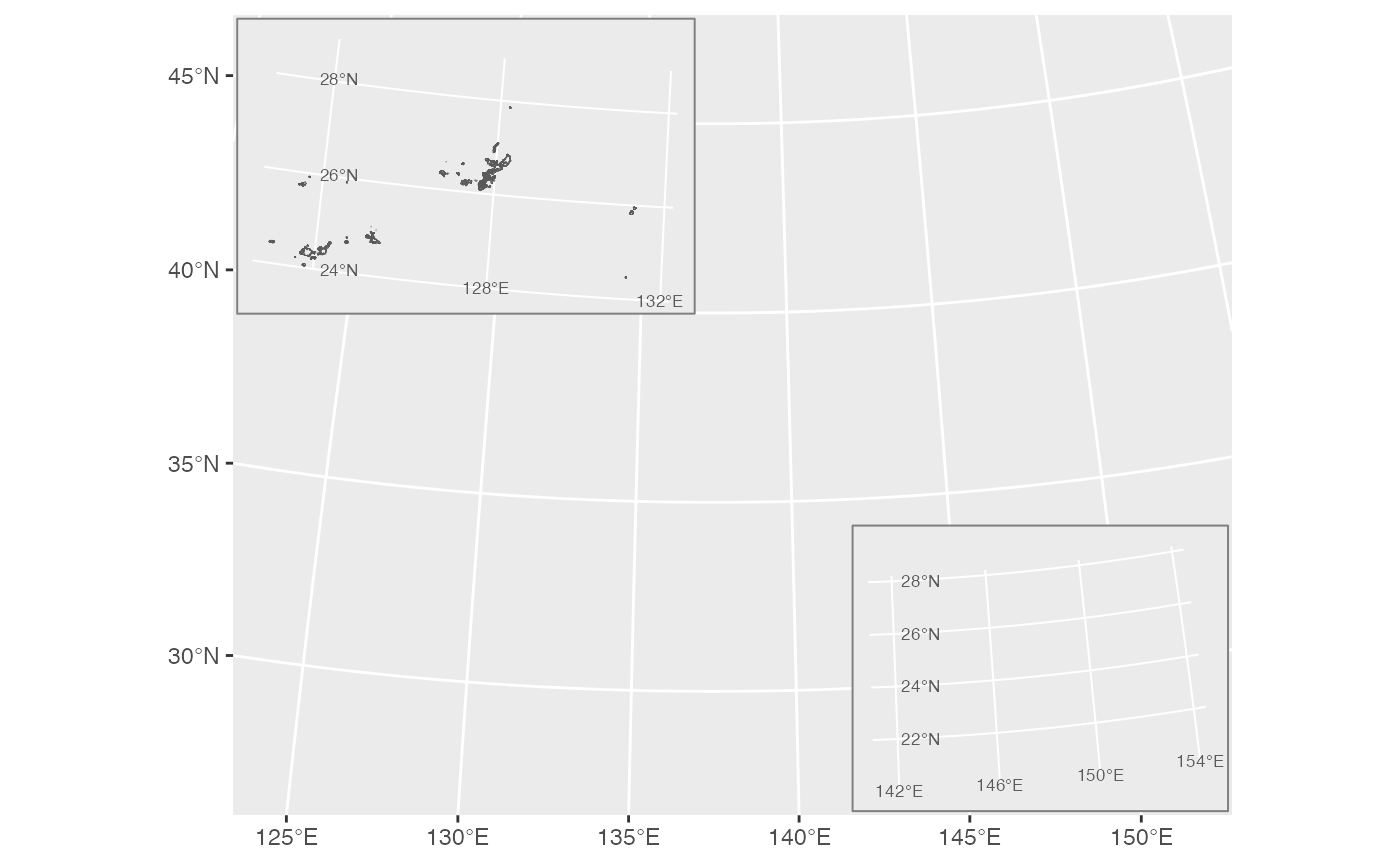
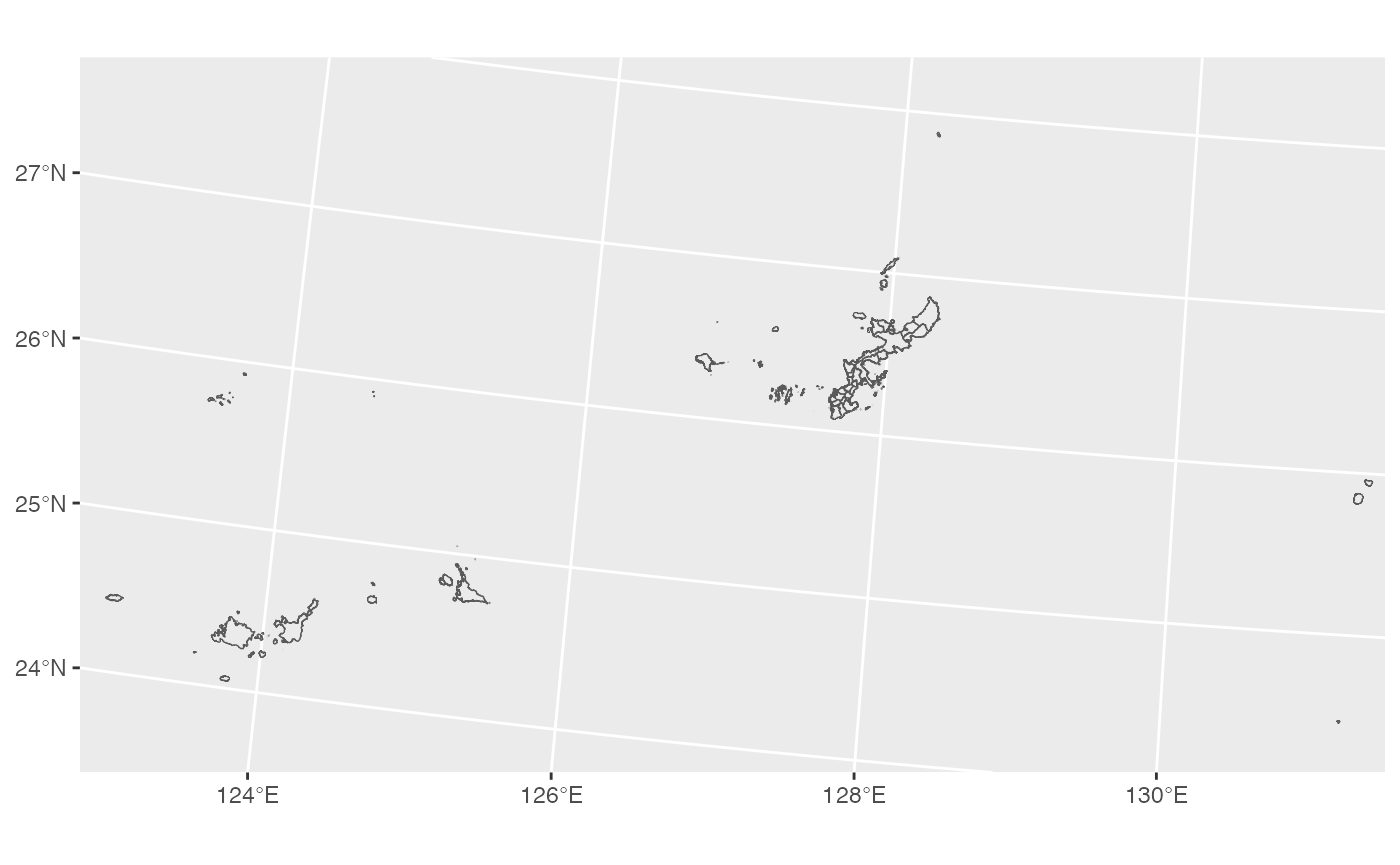
Finalize CRAN readiness checks

diff --git a/docs/reference/plot_jpmap.html b/docs/reference/plot_jpmap.html
@@ -107,7 +107,10 @@
 <dt id="arg-inset">inset<a class="anchor" aria-label="anchor" href="#arg-inset"></a></dt>
 <dd><p>Inset behavior. Use <code>TRUE</code> to move both Okinawa and
 Ogasawara, <code>FALSE</code> for no movement, or a character vector containing
-<code>"okinawa"</code> and/or <code>"ogasawara"</code> to move selected island groups.</p></dd>
+<code>"okinawa"</code> and/or <code>"ogasawara"</code> to move selected island groups. For
+filtered municipality maps such as
+<code>plot_jpmap("municipality", include = "Okinawa")</code>, the default plot frame
+is local and non-inset unless <code>inset</code> is supplied explicitly.</p></dd>
 
 <dt id="arg-okinawa">okinawa<a class="anchor" aria-label="anchor" href="#arg-okinawa"></a></dt>
 <dd><p>Whether Okinawa should be moved when <code>inset</code> includes it.</p></dd>

diff --git a/project_history/2026-06-14 by Codex.md b/project_history/2026-06-14 by Codex.md
@@ -141,6 +141,15 @@ wording that implied disputed-territory handling was hidden, switched the
 municipal choropleth vignette to 2020 Okinawa Island municipality population,
 and used `ggthemes::scale_color_colorblind()` for the municipal point map.
 
+CRAN readiness and municipal-default follow-up: verified that all exported
+functions and bundled datasets have Rd aliases, added source roxygen blocks for
+the remaining exported functions, and confirmed Rd checks are clean. Changed
+`plot_jpmap("municipality", include = "Okinawa")` so filtered municipality
+plots default to a local non-inset frame unless `inset` is supplied explicitly.
+Added `.github` to `.Rbuildignore` and reran `R CMD check --as-cran`; the final
+local result was 0 errors, 0 warnings, and 2 notes: the expected new
+submission/package-size note and a local HTML Tidy version note.
+
 ## Major Artifacts Created Or Updated
 
 - `project_history/2026-06-14 by Codex.md`

diff --git a/docs/reference/plot_jpmap.md b/docs/reference/plot_jpmap.md
@@ -81,7 +81,10 @@ plot_jpmap(
 
   Inset behavior. Use `TRUE` to move both Okinawa and Ogasawara, `FALSE`
   for no movement, or a character vector containing `"okinawa"` and/or
-  `"ogasawara"` to move selected island groups.
+  `"ogasawara"` to move selected island groups. For filtered
+  municipality maps such as
+  `plot_jpmap("municipality", include = "Okinawa")`, the default plot
+  frame is local and non-inset unless `inset` is supplied explicitly.
 
 - okinawa:
 